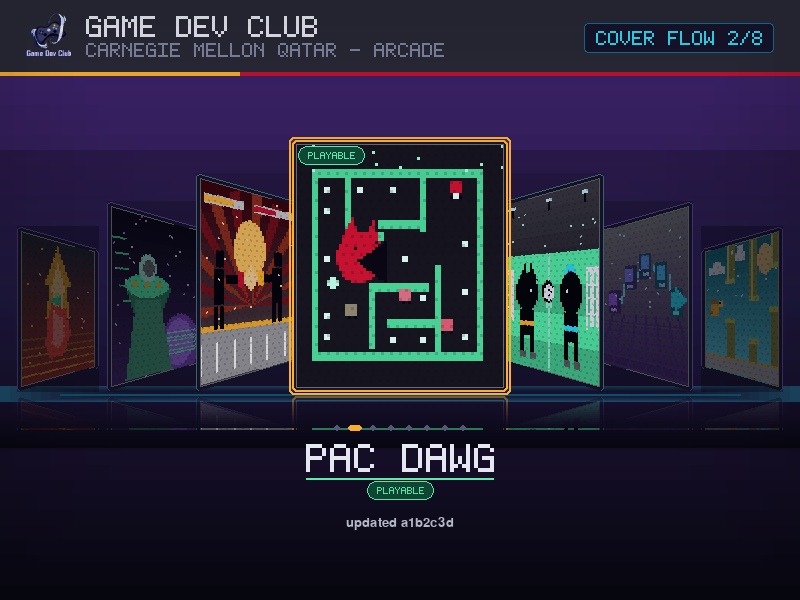
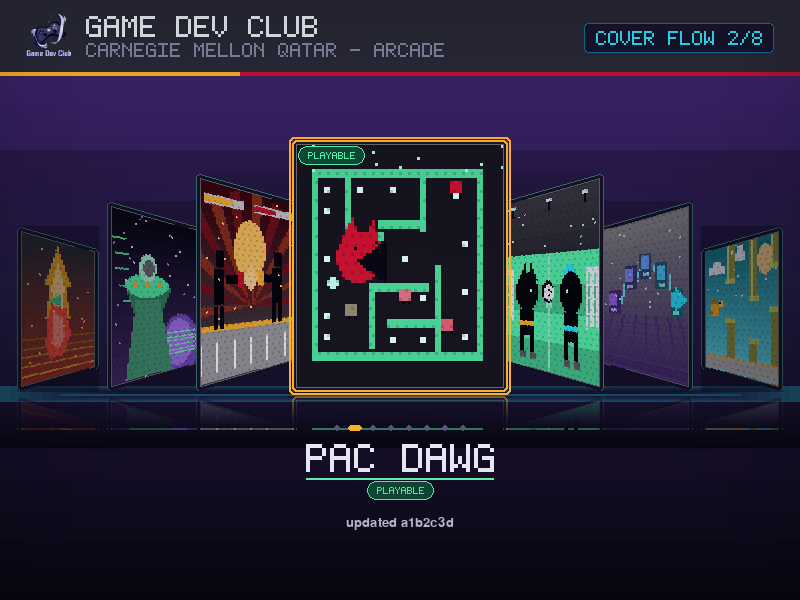
Enable all eight accepted arcade games

Changed region(s): [[0.75, 0.33, 1.0, 0.66], [0.125, 0.39, 0.25, 0.63], [0.0, 0.42, 0.125, 0.66]]

diff --git a/tests/test_previews.py b/tests/test_previews.py
@@ -8,6 +8,7 @@ from __future__ import annotations
 
 import support  # noqa: F401 - pins SDL to the dummy drivers before pygame loads
 import contextlib
+from dataclasses import replace
 import hashlib
 import io
 import tempfile
@@ -73,12 +74,18 @@ class HonestyTests(unittest.TestCase):
         self.manifest = _manifest()
         self.states = cabinet_states(self.manifest)
 
+    def disabled_fixture(self):
+        entry = replace(self.manifest[0], launchable=False, repository=None, ref=None, entrypoint=None)
+        manifest = replace(self.manifest, games=(entry, *self.manifest.games[1:]))
+        return manifest, entry, cabinet_states(manifest)
+
     def test_no_coming_soon_game_is_given_a_sync_only_status(self) -> None:
-        for entry in self.manifest:
+        manifest, _, states = self.disabled_fixture()
+        for entry in manifest:
             if entry.launchable:
                 continue
             with self.subTest(game=entry.id):
-                status = self.states[entry.id].status
+                status = states[entry.id].status
                 self.assertIs(status, GameStatus.COMING_SOON)
                 self.assertFalse(status.requires_sync)
 
@@ -89,25 +96,24 @@ class HonestyTests(unittest.TestCase):
                     self.assertTrue(self.states[entry.id].status.is_playable)
 
     def test_the_guard_rejects_an_impossible_state(self) -> None:
-        coming_soon = next(e for e in self.manifest if not e.launchable)
-        rigged = dict(self.states)
+        manifest, coming_soon, rigged = self.disabled_fixture()
         rigged[coming_soon.id] = GameState(
             coming_soon.id, GameStatus.UPDATING, "impossible"
         )
         with self.assertRaises(ValueError) as caught:
-            assert_states_are_reachable(self.manifest, rigged)
+            assert_states_are_reachable(manifest, rigged)
         self.assertIn(coming_soon.id, str(caught.exception))
 
     def test_the_guard_rejects_every_sync_only_status(self) -> None:
-        coming_soon = next(e for e in self.manifest if not e.launchable)
+        manifest, coming_soon, states = self.disabled_fixture()
         for status in GameStatus:
             if not status.requires_sync:
                 continue
             with self.subTest(status=status.name):
-                rigged = dict(self.states)
+                rigged = dict(states)
                 rigged[coming_soon.id] = GameState(coming_soon.id, status, "impossible")
                 with self.assertRaises(ValueError):
-                    assert_states_are_reachable(self.manifest, rigged)
+                    assert_states_are_reachable(manifest, rigged)
 
     def test_no_shot_shows_a_banner(self) -> None:
         """The screenshots depict a healthy cabinet: no notice banner shown."""

diff --git a/tests/test_manifest.py b/tests/test_manifest.py
@@ -45,12 +45,23 @@ class ShippedManifestTests(unittest.TestCase):
         ids = [game.id for game in manifest]
         self.assertEqual(len(ids), len(set(ids)))
 
-    def test_only_streetfighter_pacdawg_and_headscotter_are_launchable(self) -> None:
+    def test_all_eight_accepted_games_are_launchable(self) -> None:
         manifest = load_manifest(MANIFEST_FILE)
         self.assertEqual(
             [game.id for game in manifest.launchable],
-            ["streetfighter", "pacdawg", "headscotter"],
+            ["streetfighter", "pacdawg", "headscotter", "pass-the-game", "flappy-scotty",
+             "smart-ways-to-die", "spicy-adventures", "ufo-race-server"],
         )
+
+    def test_new_games_declare_their_prepared_runtime(self) -> None:
+        manifest = load_manifest(MANIFEST_FILE)
+        for game_id in ("pass-the-game", "smart-ways-to-die", "ufo-race-server"):
+            self.assertEqual(manifest.by_id(game_id).python_requirements, "requirements.txt")
+        flappy = manifest.by_id("flappy-scotty")
+        self.assertIs(flappy.runtime, Runtime.GODOT)
+        self.assertEqual(flappy.godot_version.value, "4.4.1-stable")
+        self.assertEqual(flappy.startup_script, "arcade/bootstrap.gd")
+        self.assertEqual(manifest.by_id("spicy-adventures").godot_version.value, "4.5.2-stable")
 
     def test_every_game_has_distinct_card_art(self) -> None:
         manifest = load_manifest(MANIFEST_FILE)

diff --git a/README.md b/README.md
@@ -508,7 +508,7 @@ same size, same position. Everything that makes the three modes look
 different lives in the content area below it.
 
 They show the shipped `data/games.json` exactly as a healthy cabinet would --
-three playable games and five in development. Availability lives entirely on the
+eight accepted games, including two native Godot games. Availability lives entirely on the
 per-card badge; nothing here is a mock-up.
 
 `docs/screenshots/render-manifest.json` records the SHA-256 of every PNG, a
@@ -615,8 +615,8 @@ The gallery is **curated**: it shows exactly what `data/games.json` lists, in th
 order. Nothing is discovered automatically, because an arcade at a club fair is
 the wrong place to find out that somebody's work-in-progress does not start.
 
-Prepare and test an entry in a separate manifest first. This is a **schema
-example**, not a claim that Flappy is activated or its cabinet adapter accepted:
+Prepare and test new entries in a separate manifest first. Flappy's accepted
+original-pack adapter illustrates the native runtime fields:
 
 ```json
 {
@@ -629,6 +629,7 @@ example**, not a claim that Flappy is activated or its cabinet adapter accepted:
   "repository": "https://github.com/GDC-CMU/FlappyScotty.git",
   "ref": "main",
   "entrypoint": "Flappy Scotty.pck",
+  "startup_script": "arcade/bootstrap.gd",
   "art": { "motif": "flight", "palette": ["electric_cyan", "warm_amber", "ink"], "seed": 3303 }
 }
 ```
@@ -652,7 +653,7 @@ example**, not a claim that Flappy is activated or its cabinet adapter accepted:
 Only after the native/controller/offline/save/return-to-gallery gate passes
 does the coordinator fill in delivery metadata and set `launchable` to `true`.
 Disabled entries carry no delivery/preparation metadata and are never fetched.
-The current shipped catalog deliberately still has three enabled games. Then:
+The current shipped catalog enables all eight accepted club games. After a catalog change:
 
 ```bash
 python -m unittest discover -s tests -v    # validates the shipped manifest

diff --git a/docs/native-runtime/interfaces.md b/docs/native-runtime/interfaces.md
@@ -2,10 +2,9 @@
 
 ## Activation boundary
 
-The shipped `data/games.json` remains unchanged: StreetFighter, PacDawg and
-HeadScotter are enabled; five entries remain disabled. Use a separate staged
-manifest/cache/data root to prove candidates. The coordinator alone publishes,
-promotes installed revisions and activates entries after native cabinet checks.
+The shipped `data/games.json` enables all eight accepted club games. Use a
+separate staged manifest/cache/data root to prove future candidates. Publish,
+promote installed revisions and activate entries only after native cabinet checks.
 No headless diagnostic is a claim of complete game/controller readiness.
 
 ## Public manifest schema (version 1)
